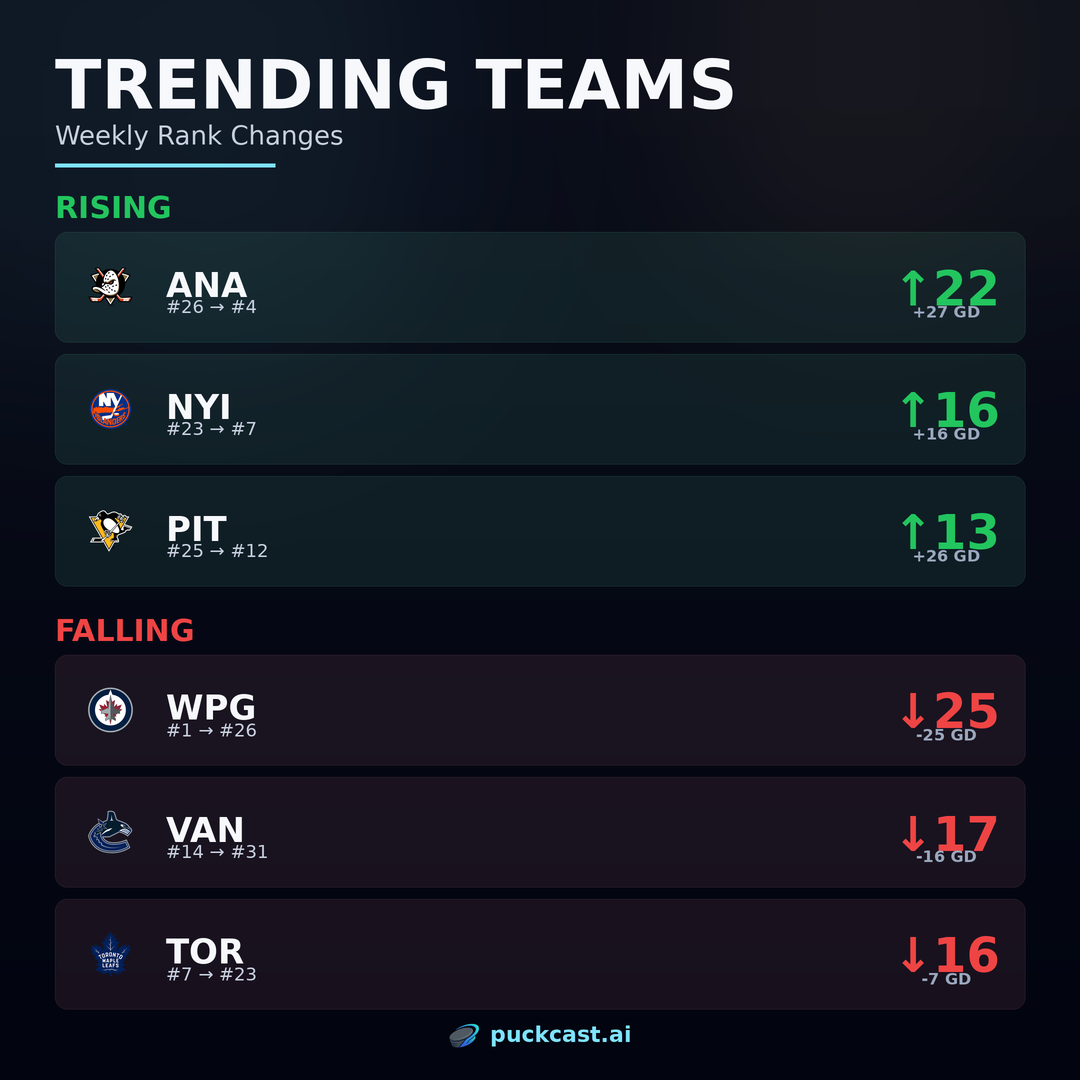
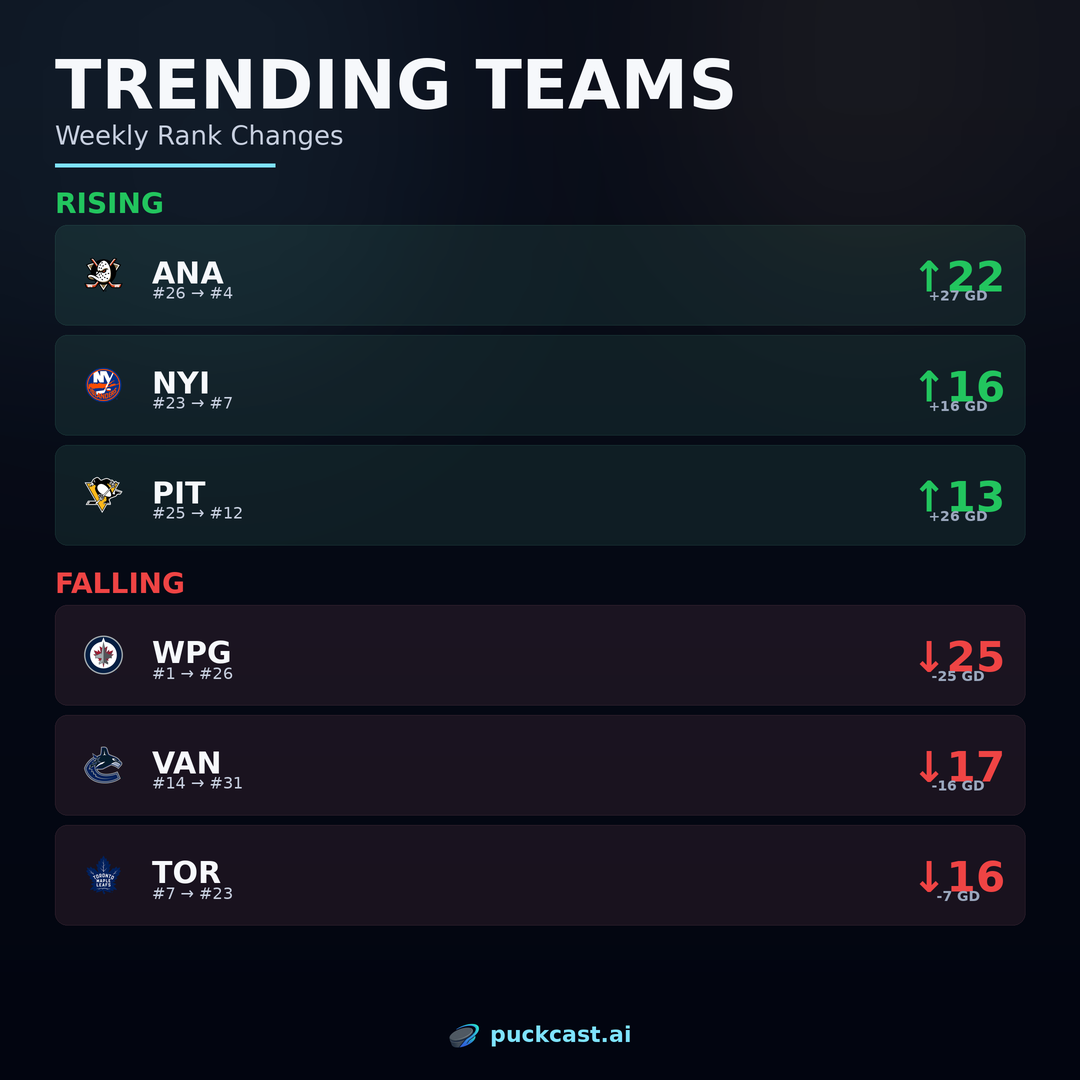
fix: correct layout issues in power rankings and risers/fallers
- Power rankings: reduce tile size from S(128) to S(118) to fit within screen
- Power rankings: adjust logo and font sizes to match tile proportions
- Risers/fallers: reduce row height from S(110) to S(100) to prevent overlap
- Risers/fallers: scale down logos and fonts for cleaner spacing

diff --git a/graphics/templates/risers_fallers.py b/graphics/templates/risers_fallers.py
@@ -83,16 +83,16 @@ def draw_trend_row(
     draw = ImageDraw.Draw(result)
 
     # Team logo
-    logo_size = S(75)
+    logo_size = S(65)
     logo = get_logo(abbrev, logo_size)
-    logo_x = margin + S(18)
+    logo_x = margin + S(16)
     logo_y = row_center_y - logo_size // 2
     result.paste(logo, (logo_x, logo_y), logo)
 
     # Team abbreviation and rank change
-    info_x = logo_x + logo_size + S(18)
-    abbrev_font = get_font(S(34), bold=True)
-    rank_font = get_font(S(18), bold=False)
+    info_x = logo_x + logo_size + S(16)
+    abbrev_font = get_font(S(30), bold=True)
+    rank_font = get_font(S(16), bold=False)
 
     abbrev_bbox = draw.textbbox((0, 0), abbrev, font=abbrev_font)
     abbrev_h = abbrev_bbox[3] - abbrev_bbox[1]
@@ -106,25 +106,25 @@ def draw_trend_row(
     draw.text((info_x, text_y), abbrev, fill=hex_to_rgb(PuckcastColors.TEXT_PRIMARY), font=abbrev_font)
     draw.text((info_x, text_y + abbrev_h + S(6)), rank_text, fill=hex_to_rgb(PuckcastColors.TEXT_SECONDARY), font=rank_font)
 
-    # Big rank delta on the right
-    delta_font = get_font(S(48), bold=True)
+    # Rank delta on the right
+    delta_font = get_font(S(42), bold=True)
     delta_text = f"↑{abs(rank_delta)}" if rank_delta > 0 else f"↓{abs(rank_delta)}"
     delta_bbox = draw.textbbox((0, 0), delta_text, font=delta_font)
     delta_w = delta_bbox[2] - delta_bbox[0]
     delta_h = delta_bbox[3] - delta_bbox[1]
 
-    gd_font = get_font(S(16), bold=True)
+    gd_font = get_font(S(14), bold=True)
     gd_text = f"+{goal_diff_delta} GD" if goal_diff_delta > 0 else f"{goal_diff_delta} GD"
     gd_bbox = draw.textbbox((0, 0), gd_text, font=gd_font)
     gd_w = gd_bbox[2] - gd_bbox[0]
     gd_h = gd_bbox[3] - gd_bbox[1]
 
-    right_x = img.width - margin - max(delta_w, gd_w) - S(25)
-    total_right_h = delta_h + S(6) + gd_h
+    right_x = img.width - margin - max(delta_w, gd_w) - S(20)
+    total_right_h = delta_h + S(4) + gd_h
     right_y = row_center_y - total_right_h // 2
 
     draw.text((right_x, right_y), delta_text, fill=accent_color, font=delta_font)
-    draw.text((right_x + (delta_w - gd_w) // 2, right_y + delta_h + S(6)), gd_text, fill=hex_to_rgb(PuckcastColors.TEXT_TERTIARY), font=gd_font)
+    draw.text((right_x + (delta_w - gd_w) // 2, right_y + delta_h + S(4)), gd_text, fill=hex_to_rgb(PuckcastColors.TEXT_TERTIARY), font=gd_font)
 
     img.paste(result.convert("RGB"))
 
@@ -147,23 +147,23 @@ def generate_risers_fallers_image(risers: List[Dict], fallers: List[Dict]) -> Im
     line_y = S(165)
     draw.line([(margin, line_y), (margin + S(220), line_y)], fill=hex_to_rgb(PuckcastColors.AQUA), width=S(4))
 
-    row_height = S(110)
-    row_gap = S(12)
+    row_height = S(100)
+    row_gap = S(10)
 
     # Risers section
-    section_font = get_font(S(30), bold=True)
-    y = line_y + S(25)
+    section_font = get_font(S(28), bold=True)
+    y = line_y + S(22)
     draw.text((margin, y), "RISING", fill=hex_to_rgb(PuckcastColors.RISING), font=section_font)
-    y += S(42)
+    y += S(38)
 
     for team in risers[:3]:
         draw_trend_row(img, team, y, margin, row_height, is_riser=True)
         y += row_height + row_gap
 
     # Fallers section
-    y += S(15)
+    y += S(12)
     draw.text((margin, y), "FALLING", fill=hex_to_rgb(PuckcastColors.FALLING), font=section_font)
-    y += S(42)
+    y += S(38)
 
     for team in fallers[:3]:
         draw_trend_row(img, team, y, margin, row_height, is_riser=False)

diff --git a/graphics/templates/power_rankings.py b/graphics/templates/power_rankings.py
@@ -80,28 +80,28 @@ def draw_team_tile(
     draw = ImageDraw.Draw(result)
 
     # Rank number (top left)
-    rank_font = get_font(S(18), bold=True)
-    draw.text((x + S(10), y + S(8)), str(rank), fill=hex_to_rgb(PuckcastColors.TEXT_TERTIARY), font=rank_font)
+    rank_font = get_font(S(16), bold=True)
+    draw.text((x + S(8), y + S(6)), str(rank), fill=hex_to_rgb(PuckcastColors.TEXT_TERTIARY), font=rank_font)
 
-    # Team logo (centered, larger)
-    logo_size = S(62)
+    # Team logo (centered)
+    logo_size = S(56)
     logo = get_logo(abbrev, logo_size)
     logo_x = x + (tile_size - logo_size) // 2
-    logo_y = y + S(26)
+    logo_y = y + S(22)
     result.paste(logo, (logo_x, logo_y), logo)
 
     # Team abbreviation
-    abbrev_font = get_font(S(18), bold=True)
+    abbrev_font = get_font(S(16), bold=True)
     abbrev_bbox = draw.textbbox((0, 0), abbrev, font=abbrev_font)
     abbrev_w = abbrev_bbox[2] - abbrev_bbox[0]
-    draw.text((x + (tile_size - abbrev_w) // 2, y + tile_size - S(32)), abbrev, fill=hex_to_rgb(PuckcastColors.TEXT_PRIMARY), font=abbrev_font)
+    draw.text((x + (tile_size - abbrev_w) // 2, y + tile_size - S(28)), abbrev, fill=hex_to_rgb(PuckcastColors.TEXT_PRIMARY), font=abbrev_font)
 
     # Delta indicator
     if delta != 0:
-        delta_font = get_font(S(14), bold=True)
+        delta_font = get_font(S(13), bold=True)
         delta_text = f"+{delta}" if delta > 0 else str(delta)
         delta_color = hex_to_rgb(PuckcastColors.RISING) if delta > 0 else hex_to_rgb(PuckcastColors.FALLING)
-        draw.text((x + tile_size - S(32), y + tile_size - S(24)), delta_text, fill=delta_color, font=delta_font)
+        draw.text((x + tile_size - S(28), y + tile_size - S(20)), delta_text, fill=delta_color, font=delta_font)
 
     img.paste(result.convert("RGB"))
 
@@ -124,14 +124,14 @@ def generate_power_rankings_image(rankings: List[Dict], week_of: str) -> Image.I
     line_y = S(165)
     draw.line([(margin, line_y), (margin + S(220), line_y)], fill=hex_to_rgb(PuckcastColors.AQUA), width=S(4))
 
-    # Grid layout: 8 cols x 4 rows - larger tiles to fill space
+    # Grid layout: 8 cols x 4 rows - sized to fit within margins
     cols, rows = 8, 4
-    tile_size = S(128)
-    gap = S(12)
+    tile_size = S(118)
+    gap = S(8)
 
     grid_width = cols * tile_size + (cols - 1) * gap
     start_x = (RENDER_SIZE - grid_width) // 2
-    start_y = line_y + S(35)
+    start_y = line_y + S(30)
 
     for i, team in enumerate(rankings[:32]):
         col = i % cols
